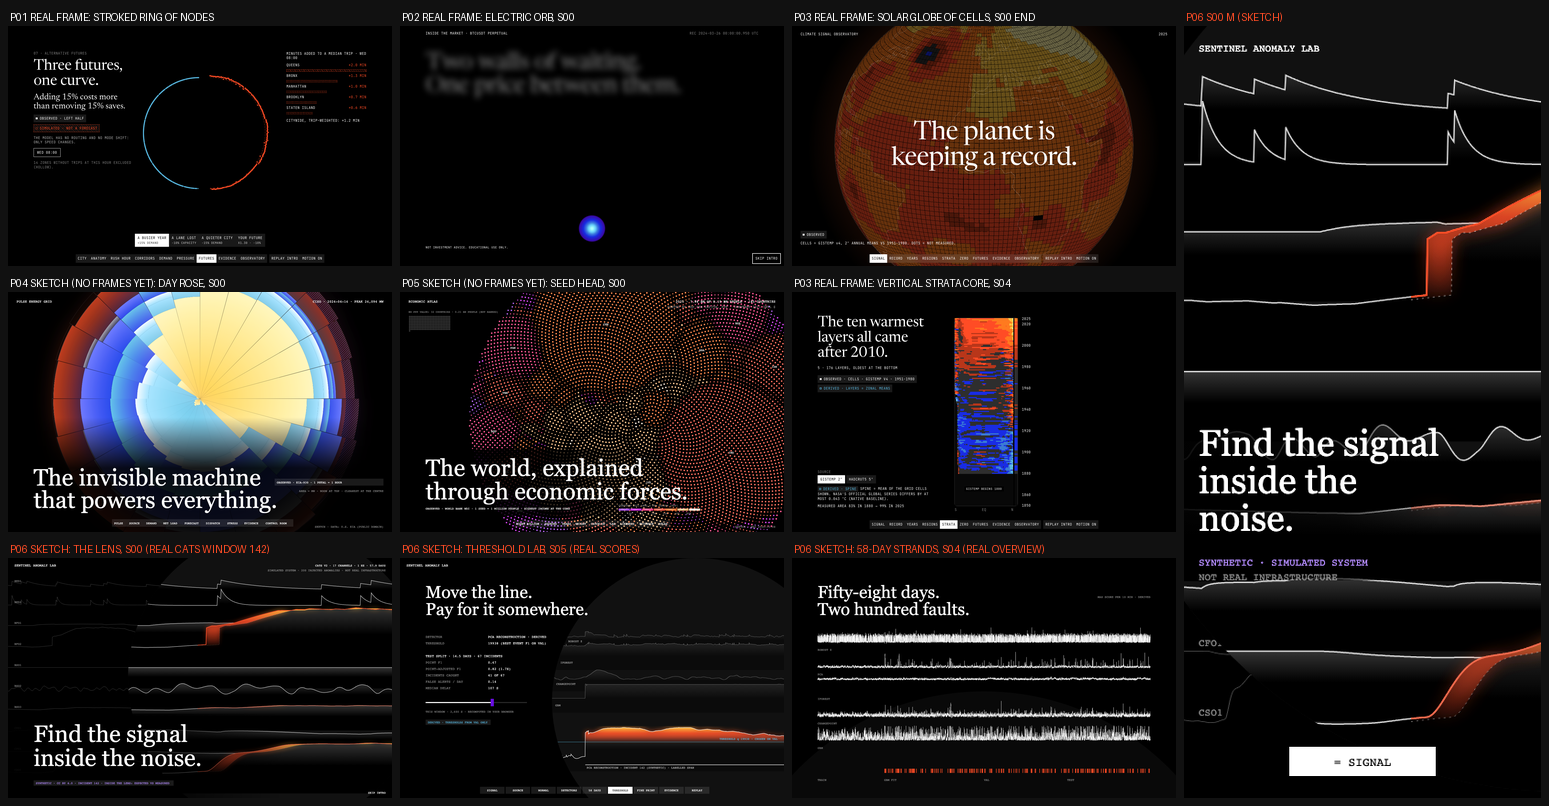
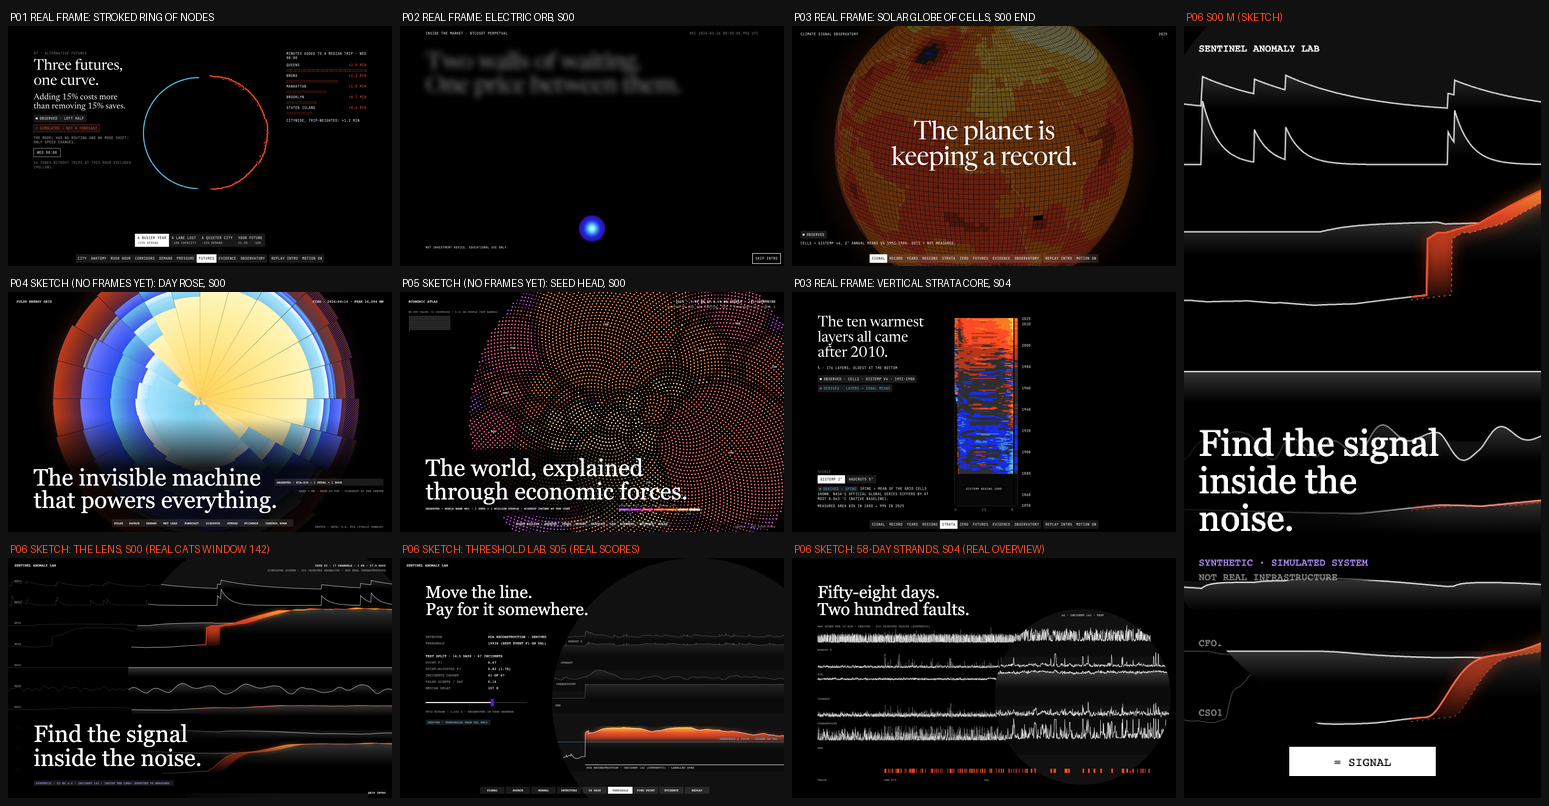
Creative direction review fixes: real L4 lens in S04 sketch, bound copy numbers
- S04 sketch: replace the faint bottom arc (read as P01's rising horizon) with
  the spec'd L4 lens riding the 58-day strip at x6; sheet recomposed.
- Copy: point F1 before point-adjusted F1 in S01 card 2; spelled-out numbers
  and the nav day count bound to facts; scoped lint exemption for S07 objections.
- Robust z line on incident 142 made conditional on operating point (it alerts
  at 0 s at BEST POINT F1, at 168.5 false alerts a day on test).
- Contact-scale legibility measured on the sketches: inside/outside luminance 8.2x (D, M).

Claude-Session: https://claude.ai/code/session_01KTz1FYH3aWv8awYBpyrJYc

Changed region(s): [[0.5268, 0.7754, 0.7747, 0.9615]]

diff --git a/design/sketches/render_lens_sketch.py b/design/sketches/render_lens_sketch.py
@@ -240,24 +240,46 @@ parts.append("</svg>")
 ov = load("overview.json")
 nb = ov["bins"]
 W, H = 1440, 900
+# The L4 lens (VISUAL_DESIGN 3.3: c (1090, 520), R 330) rides the strip over window 142's day and
+# shows the 10-minute bins around it at x6. No other circle is drawn (no rising arc).
+c4, R4, M4 = (1090, 520), 330, 6.0
+x0s, x1s = 96, W - 96
+xb = lambda b: x0s + b / nb * (x1s - x0s)
+w142 = load("window_142.json")
+focus = (w142["row0"] + w142["anomaly_start"]) / ov["bin_s"]
 parts = [f'<svg xmlns="http://www.w3.org/2000/svg" width="{W}" height="{H}" viewBox="0 0 {W} {H}">',
-         f'<rect width="{W}" height="{H}" fill="#000"/>',
-         f'<circle cx="720" cy="1480" r="980" fill="#fff" fill-opacity=".035"/>']
-x = 96 + np.arange(nb) / nb * (W - 192)
+         f'<defs><clipPath id="l4"><circle cx="{c4[0]}" cy="{c4[1]}" r="{R4}"/></clipPath>'
+         f'<mask id="o4"><rect width="{W}" height="{H}" fill="#fff"/><circle cx="{c4[0]}" cy="{c4[1]}" r="{R4}" fill="#000"/></mask>'
+         '<linearGradient id="ridge4" x1="0" y1="0" x2="0" y2="1"><stop offset="0" stop-color="#fff" stop-opacity=".2"/><stop offset=".5" stop-color="#fff" stop-opacity="0"/></linearGradient></defs>',
+         f'<rect width="{W}" height="{H}" fill="#000"/>']
+x = np.array([xb(b) for b in range(nb)])
+bins = np.arange(nb)
+xin = c4[0] + (bins - focus) * (x1s - x0s) / nb * M4
+outside, inside = [], [f'<circle cx="{c4[0]}" cy="{c4[1]}" r="{R4}" fill="#fff" fill-opacity=".065"/>']
 for k, d in enumerate(["robust_z", "pca", "iforest", "changepoint", "gbm"]):
     yb = 330 + k * 92
-    s = u16(ov["scores_q_max"][d])
-    yy = yb - s / 65535 * 70
-    parts.append(f'<path d="{path(x, yy)}" fill="none" stroke="#fff" stroke-opacity=".7" stroke-width="1"/>')
-    parts.append(mono(96, yb + 18, d.upper().replace("_", " "), 11, .5))
+    sq = u16(ov["scores_q_max"][d])
+    yy = yb - sq / 65535 * 70
+    outside.append(f'<path d="{path(x, yy)}" fill="none" stroke="#fff" stroke-opacity=".45" stroke-width="1"/>')
+    outside.append(mono(96, yb + 18, d.upper().replace("_", " "), 11, .5))
+    sel = (xin > c4[0] - R4 - 10) & (xin < c4[0] + R4 + 10)
+    yi = yb - sq[sel] / 65535 * 70 * 1.4
+    xi = xin[sel]
+    poly = path(xi, yi) + f" L{xi[-1]:.1f},{yb + 40} L{xi[0]:.1f},{yb + 40} Z"
+    inside += [f'<path d="{poly}" fill="#0b0b0b"/>', f'<path d="{poly}" fill="url(#ridge4)"/>',
+               f'<path d="{path(xi, yi)}" fill="none" stroke="#fff" stroke-opacity=".9" stroke-width="1.5"/>']
 for b, i, _ in ov["incident_bins"]:
-    parts.append(f'<rect x="{96 + b / nb * (W - 192):.1f}" y="790" width="2" height="16" fill="{ORANGE}"/>')
+    outside.append(f'<rect x="{xb(b):.1f}" y="790" width="2" height="16" fill="{ORANGE}"/>')
+    xi = c4[0] + (b - focus) * (x1s - x0s) / nb * M4
+    inside.append(f'<rect x="{xi:.1f}" y="790" width="6" height="16" fill="{ORANGE}"/>')
 for name, sp in meta["splits"].items():
-    xa = 96 + sp["lo"] / 5_000_000 * (W - 192)
-    parts.append(mono(xa, 836, name.upper().replace("_", " "), 11, .5))
+    outside.append(mono(xb(sp["lo"] / ov["bin_s"]), 836, name.upper().replace("_", " "), 11, .5))
+parts.append(f'<g mask="url(#o4)">{"".join(outside)}</g>')
+parts.append(f'<g clip-path="url(#l4)">{"".join(inside)}</g>')
+parts.append(mono(c4[0], c4[1] - R4 + 28, "x6 · INCIDENT 142 · TEST", 11, .7, "middle"))
 parts.append(f'<text x="96" y="150" font-family="{SERIF}" font-size="64" fill="#fff">Fifty-eight days.</text>')
 parts.append(f'<text x="96" y="214" font-family="{SERIF}" font-size="64" fill="#fff">Two hundred faults.</text>')
-parts.append(mono(1344, 150, "MAX SCORE PER 10 MIN · DERIVED", 11, .5, "end"))
+parts.append(mono(96, 260, "MAX SCORE PER 10 MIN · DERIVED · 200 INJECTED FAULTS (SYNTHETIC)", 11, .5))
 parts.append("</svg>")
 (HERE / "strands-s04-d.svg").write_text("".join(parts))
 print("wrote 4 svgs")

diff --git a/docs/VISUAL_DESIGN.md b/docs/VISUAL_DESIGN.md
@@ -52,7 +52,7 @@ These are inputs to the design. The design does not choose them.
   - **Thresholds per detector** (`threshold_sweep.detectors[id].thresholds_q`): robust_z 159, pca 160, iforest 160, changepoint 146, gbm 90. **The lab slider is indexed per detector**, never a fixed 160-step control.
   - **Attribution** is scored only for robust_z and PCA (`meta.detectors[id].has_channel_contributions`). PCA hit@1 is 0.70 on all 200 incidents and 0.64 on test, against a random baseline of 0.10. Per root-cause channel, PCA hit@1 on `bed2` is 0.06 (n 36), while robust z reaches 0.31: PCA's attribution fails on one channel.
   - **Windows.** There are 12 incident windows, all from test, covering categories 1-12 of 13 (category 13 has 4 test incidents but no window, DR-6). Windows 168, 138 and 135 are `truncated: true` (`anomaly_end == n`): the labelled segment runs past the window's end.
-  - **The hero window is 142** (category 9, root cause `bfo2`, affected `cso1`, segment 2,000 s, window 2,600 s, not truncated). Measured against `channels.json` train SD, `bfo2` moves 11.7 SD and `cso1` 9.0 SD during the segment, while the other channels stay inside their normal range (bed2's normal sawtooth already spans about 6 SD before the incident). PCA and GBM flag it at 0 s, Isolation Forest at 33 s and change-point at 52 s. **The robust z-score never flags it** (`incidents.json`, best_event_f1). PCA's top 3 contributors are `bfo2, cso1, bso3`. The story of the opening is real: one detector sees it, the simplest one does not.
+  - **The hero window is 142** (category 9, root cause `bfo2`, affected `cso1`, segment 2,000 s, window 2,600 s, not truncated). Measured against `channels.json` train SD, `bfo2` moves 11.7 SD and `cso1` 9.0 SD during the segment, while the other channels stay inside their normal range (bed2's normal sawtooth already spans about 6 SD before the incident). PCA and GBM flag it at 0 s, Isolation Forest at 33 s and change-point at 52 s. **The robust z-score never flags it** at its BEST EVENT F1 or 1-A-DAY thresholds (`incidents.json` and a recompute from the window). At BEST POINT F1 it flags at 0 s, but that threshold raises 168.5 false alerts a day on test. PCA's top 3 contributors are `bfo2, cso1, bso3`. The story of the opening is real: at a usable threshold, one detector sees it and the simplest one does not.
 - **The tagline versus the data.** CATS signals are "provided without noise" (dataset document, quoted in DATA_SOURCES). So "noise" on this site **never means sensor noise**. It means the normal behaviour of a busy system (all 17 channels moving all the time, the 96.2% of seconds that are nominal) and the false alarms a detector raises on it. The S01 copy says this explicitly, and rejection criterion 3 enforces it.
 - **Contracts.** `docs/DATA_CONTRACTS.md` plus 12 schemas in `data/contracts/`. Section 6 binds every placeholder to those field names. Anything missing is a numbered data request (DR-n).
 - **Honesty rules from the data** (binding on every view):
@@ -222,7 +222,7 @@ What differs is the metaphor, the giant circular composition, the scene composit
 
 **What is left is the continuous line**, which is also what telemetry is. Each concept therefore names its texture, its edge, its motion, and **what physically breaks** when an anomaly appears.
 
-**Two development iterations** (rendered from real data; PNGs kept as the current sketches):
+**Two development iterations** (rendered from real data; their PNGs were overwritten by the corrected versions now in `design/sketches/`):
 
 1. **Residual-threshold lighting** (a channel lit wherever `|measured − expected|` exceeded 3 train SD). It lit `bed2`'s normal sawtooth in window 142 as if it were the fault: **the lens was lying about noise**. Lighting is now tied to a real detector alert above a val-chosen threshold, plus that detector's contribution ranking (section 0).
 2. **An off-centre M lens at 2.6x magnification** had the window's data start inside the circle, so the lens showed a vertical edge and no arc. The M geometry (3.3) now keeps an arc visible and clamps the focus so data always spans the lens chord. A lens without a glass tint read only through strand breaks at contact scale; the 6.5% tint was added.
@@ -242,7 +242,7 @@ What differs is the metaphor, the giant circular composition, the scene composit
 - **Layout.** Asymmetric editorial: statements on a left measure, the lens centre-right and partly off-frame. REPLAY mirrors it (lens left, rail right).
 - **3D/2D strategy.** Canvas2D (one canvas, two clip passes per frame), DOM for text and controls. No WebGL, no chart library (MOTION_SYSTEM 9.1).
 - **Hero concept.** Black. Ten white traces write themselves across the screen, a record of a simulated machine. A giant circle of glass comes into focus over the right of the record: inside it the traces stretch and gain their expected paths. Then one trace, `bfo2`, pulls away from where it should be, and the gap fills with orange light; `cso1` follows. "Find the signal inside the noise." The chip under it reads SIMULATED SYSTEM, NOT REAL TELEMETRY.
-- **Nav labels.** SIGNAL · SOURCE · NORMAL · DETECTORS · 58 DAYS · THRESHOLD · FINE PRINT · EVIDENCE · REPLAY
+- **Nav labels.** SIGNAL · SOURCE · NORMAL · DETECTORS · {{facts.days|n0}} DAYS · THRESHOLD · FINE PRINT · EVIDENCE · REPLAY (the day count is bound, not typed)
 - **Responsive approach.**
   - D: the lens is centre-right.
   - T: the lens is centred low-right, with arcs visible top-left and bottom-left.
@@ -302,7 +302,7 @@ What differs is the metaphor, the giant circular composition, the scene composit
 
 **Why A gets 4 for mobile.** At M, the lens must be at least 1.2 x the frame height (507px radius on 844px), which leaves only a bottom-left arc visible, and it crosses behind the MENU pill. The arc is legible in `lens-s00-m.png`, but it is the main M risk (rejection criterion 17).
 
-**Known contact-scale risk.** The lens's 6.5% glass tint is subtle by design (it must never become an orb). At 240px, the circle reads from the strand discontinuity on the left arc plus the ridge fills. If the QA sheet shows the circle is not identifiable at D, the fix order is: ridge fill to 24%, then glass to 8%. **Never add a stroke.**
+**Contact-scale legibility, measured.** The lens's 6.5% glass tint is subtle by design (it must never become an orb). On the 240px-tall downscale of the sketches, with the scrim and text regions masked, the mean luminance inside the lens is **8.2x** the outside on D (13.3 vs 1.6 of 255) and **8.2x** on M (12.4 vs 1.5), against the 1.3x rule in MOTION_SYSTEM test 15. Built frames must be re-measured. If a built frame fails, the fix order is: ridge fill to 24%, then glass to 8%. **Never add a stroke.**
 
 ### Selection: A, "The Lens", with two grafts
 
@@ -431,7 +431,7 @@ There are no spinners and no artificial delays.
 
 - **Notification cards** (radius 8, padding 24; 13px mono header at 50%, 18px body):
   - **Card 1** (`#161616`): header `FROM: PCA DETECTOR / TEST SPLIT · {{facts.test_days|d1}} DAYS`, body `CAUGHT {{pca.best_event_f1.test.detected}} OF {{split.test.segments}} INJECTED FAULTS · {{pca…false_alerts_per_day|d2}} FALSE ALERTS A DAY.` Tag DERIVED.
-  - **Card 2** (`#690DE2` fill, white text): header `FROM: ISOLATION FOREST / SAME TEST SPLIT`, body `POINT-ADJUSTED F1 {{iforest…point_adjusted_f1|d2}}. POINT F1 {{iforest…point_f1|d2}}. SAME ALERTS, {{inflation|d1}}X APART.` Tag DERIVED.
+  - **Card 2** (`#690DE2` fill, white text): header `FROM: ISOLATION FOREST / SAME TEST SPLIT`, body `POINT F1 {{iforest…point_f1|d2}}. POINT-ADJUSTED F1 {{iforest…point_adjusted_f1|d2}}. SAME ALERTS, {{inflation|d1}}X APART.` Tag DERIVED.
 - **Placement.**
   - D: the cards sit at x 96-456, y 560-780, left of the lens and never over it.
   - T: full width minus 96, under the statement.
@@ -460,7 +460,7 @@ There are no spinners and no artificial delays.
 | # | Fill | Visual zone | Data | Tag |
 |---|---|---|---|---|
 | 1 "A simulated machine." | `#161616` | Window 142: 17 small strands (10 telemetry solid, 7 context dashed and labelled CONTEXT), plus the graft from C: `bfo2` against `cso1` as a 1px white trajectory, with the labelled span in orange. Under it, the three `meta.attribution` strings in 11px | `channels`, `window_142`, `meta.dataset`, `meta.attribution` | SYNTHETIC |
-| 2 "Two hundred injected faults." | `#161616` | A 57.9-day strip: 200 orange ticks at `overview.incident_bins` (bin index), with the 13 category numbers as a row of counts (`1: 11 … 13: 12`, from `incidents.json`). Readout `{{facts.contamination_pct|d1}}% OF SECONDS LABELLED · MEDIAN FAULT {{facts.median_incident_duration_s}} S · CATEGORIES UNNAMED IN THE DATASET` | `overview.incident_bins`, `incidents`, `facts` | SYNTHETIC |
+| 2 "{{facts.incidents|words|cap}} injected faults." | `#161616` | A 57.9-day strip: 200 orange ticks at `overview.incident_bins` (bin index), with the 13 category numbers as a row of counts (`1: 11 … 13: 12`, from `incidents.json`). Readout `{{facts.contamination_pct|d1}}% OF SECONDS LABELLED · MEDIAN FAULT {{facts.median_incident_duration_s}} S · CATEGORIES UNNAMED IN THE DATASET` | `overview.incident_bins`, `incidents`, `facts` | SYNTHETIC |
 | 3 "Four rooms, one direction." | `#192CE4` fill, white text | Four horizontal bands in time order: TRAIN 11.6 d (0 faults), GBM FIT 17.4 d (83), VAL 14.5 d (50), TEST 14.5 d (67), with an arrow `THRESHOLDS ARE CHOSEN HERE` under VAL and `REPORTED HERE, NEVER TUNED` under TEST | `meta.splits` | DERIVED |
 | 4 "Checked, not trusted." | `#161616` | 22 square check marks (`quality.checks`, ✓ or ✗ drawn from `passed`), then the label line `200 SEGMENTS FROM LABELS = 200 IN METADATA · 0 MISMATCHED ROWS · END TIME EXCLUSIVE`, and the md5 of `data.parquet` truncated to 12 characters | `quality`, `reconciliation` | DERIVED |
 
@@ -509,7 +509,7 @@ There are no spinners and no artificial delays.
     - **OPERATING POINT:** BEST POINT F1 / BEST EVENT F1 / 1 FALSE ALERT A DAY (segmented)
   - **T:** lens on top, the card under it.
   - **M:** lens at L3-M, the card as a bottom block (220px), and OPERATING POINT as a row of three squares.
-- **Behaviour.** Stepped at p 0.10 / 0.28 / 0.46 / 0.64 / 0.82 (hysteresis ±0.02): **ROBUST Z** (never alerts on 142 at best event F1) → **PCA** (alerts at 0 s) → **ISOLATION FOREST** (33 s) → **CHANGE-POINT** (52 s; its card adds `CAUSAL VERSION: ABOUT 100 S OF LOOK-AHEAD BUILT INTO ITS DELAY`) → **GBM** (0 s; chip PREDICTED, `TRAINED ON 83 LABELLED INCIDENTS`).
+- **Behaviour.** Stepped at p 0.10 / 0.28 / 0.46 / 0.64 / 0.82 (hysteresis ±0.02): **ROBUST Z** (never alerts on 142 at BEST EVENT F1 or 1-A-DAY; alerts at 0 s at BEST POINT F1) → **PCA** (alerts at 0 s) → **ISOLATION FOREST** (33 s) → **CHANGE-POINT** (52 s; its card adds `CAUSAL VERSION: ABOUT 100 S OF LOOK-AHEAD BUILT INTO ITS DELAY`) → **GBM** (0 s; chip PREDICTED, `TRAINED ON 83 LABELLED INCIDENTS`).
 - **Data:** `window_142.scores_q_u16`, `detector_eval.detectors[*].points[*].threshold_q`, `meta.detectors`, `incidents` (id 142 detection at best_event_f1; other operating points by DR-2).
 - **Insight.** On the same fault, the simplest detector stays silent, two detectors fire at once, and two fire late. "Anomalous" depends on what each one expects.
 - **Tags.** Scores DERIVED; the GBM PREDICTED; thresholds DERIVED (val).
@@ -703,7 +703,7 @@ There are eleven interactions. Six are driven by visitor-set analytical paramete
 - **Keyboard:** Esc, or Enter on SKIP, finishes. Focus starts on SKIP INTRO.
 - **Mobile:** a tap on SKIP, or any touch-scroll, completes it in 350ms.
 - **Reduced motion:** the end state at once.
-- **Text alternative:** a visually hidden paragraph: "Animated introduction: ten measurements from a simulated machine are drawn as lines across the screen. A large circular lens magnifies part of the record and shows, for each line, where it was expected to be. One measurement, bfo2, pulls away from its expected path and the gap lights up orange, then cso1. This is a simulated system with injected faults, not real telemetry."
+- **Text alternative:** a visually hidden paragraph: "Animated introduction: {{facts.telemetry_channels|words}} measurements from a simulated machine are drawn as lines across the screen. A large circular lens magnifies part of the record and shows, for each line, where it was expected to be. One measurement, bfo2, pulls away from its expected path and the gap lights up orange, then cso1. This is a simulated system with injected faults, not real telemetry."
 - **Test:**
   - SKIP is visible at 100ms, and the nav appears within 400ms of the click.
   - The LCP element is `h1[data-hero]`.
@@ -732,7 +732,7 @@ There are eleven interactions. Six are driven by visitor-set analytical paramete
 - **Visual output:** five strands, five hairlines, the lit seconds of the active detector, and the card.
 - **Keyboard:** detectors are a tablist; OPERATING POINT is a radio group.
 - **Reduced motion:** 5 static lenses in a column, one per detector, at BEST EVENT F1, with the operating point control live.
-- **Test:** for every detector and operating point, the card's first-alert delay equals the first flagged second in `[anomaly_start, anomaly_end)` minus `anomaly_start` recomputed from the window, and equals `incidents[142].detection[d].delay_s` at best_event_f1. Robust z shows `NEVER ALERTED` at best_event_f1.
+- **Test:** for every detector and operating point, the card's first-alert delay (and the conditional robust z line) equals the first flagged second in `[anomaly_start, anomaly_end)` minus `anomaly_start` recomputed from the window, and equals `incidents[142].detection[d].delay_s` at best_event_f1. Robust z shows `NEVER ALERTED` at best_event_f1 and far_budget_1_per_day, and `0 S` with its false-alert cost at best_point_f1.
 
 ### 4. Source Deck (S02)
 
@@ -835,9 +835,9 @@ There are eleven interactions. Six are driven by visitor-set analytical paramete
 Rules:
 - Serif statements in sentence case.
 - Mono copy in uppercase.
-- Every number comes from section 6.
+- Every number comes from section 6, **including numbers spelled as words**. `|words` renders an integer in English words (`{{facts.incidents|words}}` = "two hundred"), `|cap` capitalises the first letter, and `|n0` rounds (`{{facts.days|n0}}` = 58). Spelled numbers in statements below are written with their binding.
 - No U+2014 or U+2015 dashes.
-- **No causal verbs about attribution** ("caused", "the cause", "because of", "drives", "root cause" outside the quoted dataset column). **No real-infrastructure nouns** ("server", "production", "our systems", "real telemetry", "SMD" except in S07 answer 1). A Vitest grep enforces both over the copy files.
+- **No causal verbs about attribution** ("caused", "the cause", "because of", "drives", "root cause" outside the quoted dataset column). **No real-infrastructure nouns** ("server", "production", "our systems", "real telemetry", "SMD" except in S07 answer 1). A Vitest grep enforces both over the copy files. **One scoped exemption:** the S07 objection column (objections 1 and 5 quote the misreading on purpose). Each exempted line is listed by id in the lint, and a Playwright check asserts it is always rendered together with its answer card.
 - Every F1 number appears with its partner (point and point-adjusted).
 
 ### S00
@@ -846,14 +846,14 @@ Rules:
 
 ### S01
 - Headline (after shrink): "Find the signal inside the noise."
-- Statement: "Seventeen measurements never sit still. Almost none of that movement is a fault."
+- Statement: "{{facts.channels|words|cap}} measurements never sit still. Almost none of that movement is a fault."
 - Kicker: `NOISE HERE MEANS NORMAL BEHAVIOUR: THE {{facts.nominal_pct|d1}}% OF SECONDS WITH NO FAULT, AND EVERY FALSE ALARM RAISED ON THEM. THIS SIMULATION HAS NO SENSOR NOISE.` (DR-5)
 - Cards: section 3.4 S01.
 
 ### S02
 - Kicker: `SOURCE · A SIMULATED SYSTEM WITH INJECTED FAULTS · NOT REAL INFRASTRUCTURE`
 - Card 1: "A simulated machine." / `{{facts.channels}} CHANNELS AT 1 HZ FOR {{facts.days|d1}} DAYS: {{facts.telemetry_channels}} READINGS AND 7 CONTEXT INPUTS. THE DATASET'S AUTHORS CALL IT SYNTHETIC.`
-- Card 2: "Two hundred injected faults." / `EACH ONE HAS AN EXACT START, END AND CHANNEL LABEL. REAL INCIDENTS ARE NEVER LABELLED THIS CLEANLY.`
+- Card 2: "{{facts.incidents|words|cap}} injected faults." / `EACH ONE HAS AN EXACT START, END AND CHANNEL LABEL. REAL INCIDENTS ARE NEVER LABELLED THIS CLEANLY.`
 - Card 3: "Four rooms, one direction." / `DETECTORS LEARN NORMAL FIRST. THRESHOLDS ARE CHOSEN ON VAL. TEST IS ONLY EVER REPORTED.`
 - Card 4: "Checked, not trusted." / `{{facts.quality_checks_passed}} OF {{facts.quality_checks_total}} CHECKS PASSED. LABELS REBUILT FROM METADATA MATCH EVERY ROW.`
 
@@ -862,11 +862,13 @@ Rules:
 - Kicker: `EXPECTED = THE LAST 61 SECONDS' MEDIAN · SCALED BY THE TYPICAL RESIDUAL IN TRAINING (1.4826 × MAD)`
 
 ### S03b
-- Statement: "Five ways to be suspicious."
-- Robust z card line: `ON THIS FAULT, THE SIMPLEST DETECTOR NEVER RAISES ITS HAND.`
+- Statement: "{{count(meta.detectors)|words|cap}} ways to be suspicious."
+- Robust z card line, **conditional on the active operating point** (recomputed from the window, never hard-coded):
+  - no flag in the span: `AT THIS THRESHOLD, THE SIMPLEST DETECTOR NEVER RAISES ITS HAND ON THIS FAULT.`
+  - a flag in the span: `IT ALERTS AFTER {{delay}} S HERE, AT A THRESHOLD THAT ALSO RAISES {{robust_z.<op>.test.false_alerts_per_day|n1}} FALSE ALERTS A DAY ON TEST.`
 
 ### S04
-- Statement: "Fifty-eight days. Two hundred faults."
+- Statement: "{{facts.days|n0|words|cap}} days. {{facts.incidents|words|cap}} faults."
 - Ledger note: `CAUGHT = AT LEAST ONE FLAGGED SECOND INSIDE THE LABELLED SPAN · FALSE ALERT = OVERLAPS NO SPAN (+{{meta.metric_params.tol_after_s}} S)`
 
 ### S05
@@ -897,7 +899,7 @@ Rules:
 - Note under the rail: `12 OF 13 FAULT CATEGORIES HAVE A PUBLISHED WINDOW. NUMBERS HERE COVER THIS WINDOW ONLY. SEE LIMITATIONS.`
 
 ### S08
-- Paragraph: "A machine that never sits still, two hundred faults hidden in it, and five ways of looking. The right lens finds most of them. Every one of them is paid for in false alarms, and none of them says why."
+- Paragraph: "A machine that never sits still, {{facts.incidents|words}} faults hidden in it, and {{count(meta.detectors)|words}} ways of looking. The right lens finds most of them. Every one of them is paid for in false alarms, and none of them says why."
 - Links: section 3.4 S08.
 
 ---

diff --git a/docs/MOTION_SYSTEM.md b/docs/MOTION_SYSTEM.md
@@ -323,7 +323,7 @@ The nav is the shared shell, identical to P01-P05 6.1:
 
 - **D bar.** Bottom centre, `--surface-glass` with a static 16px blur, and square 13px mono items. The white active block slides (350ms premium) and hover is 200ms ease-in-out. The right end holds REPLAY INTRO and MOTION ON/OFF.
 - **T/M MENU pill.** A 160x32 white pill showing the current label (200ms crossfade). A tap opens a clip-path list upward (300ms premium, 30ms item stagger), and the icon morphs from "=" to "-". Close is 250ms.
-- **Labels:** SIGNAL · SOURCE · NORMAL · DETECTORS · 58 DAYS · THRESHOLD · FINE PRINT · EVIDENCE · REPLAY. S08 keeps REPLAY active.
+- **Labels:** SIGNAL · SOURCE · NORMAL · DETECTORS · {{facts.days|n0}} DAYS · THRESHOLD · FINE PRINT · EVIDENCE · REPLAY. S08 keeps REPLAY active.
 
 ### 6.2 Direct chapter jumps: instant, with a stage fade
 
